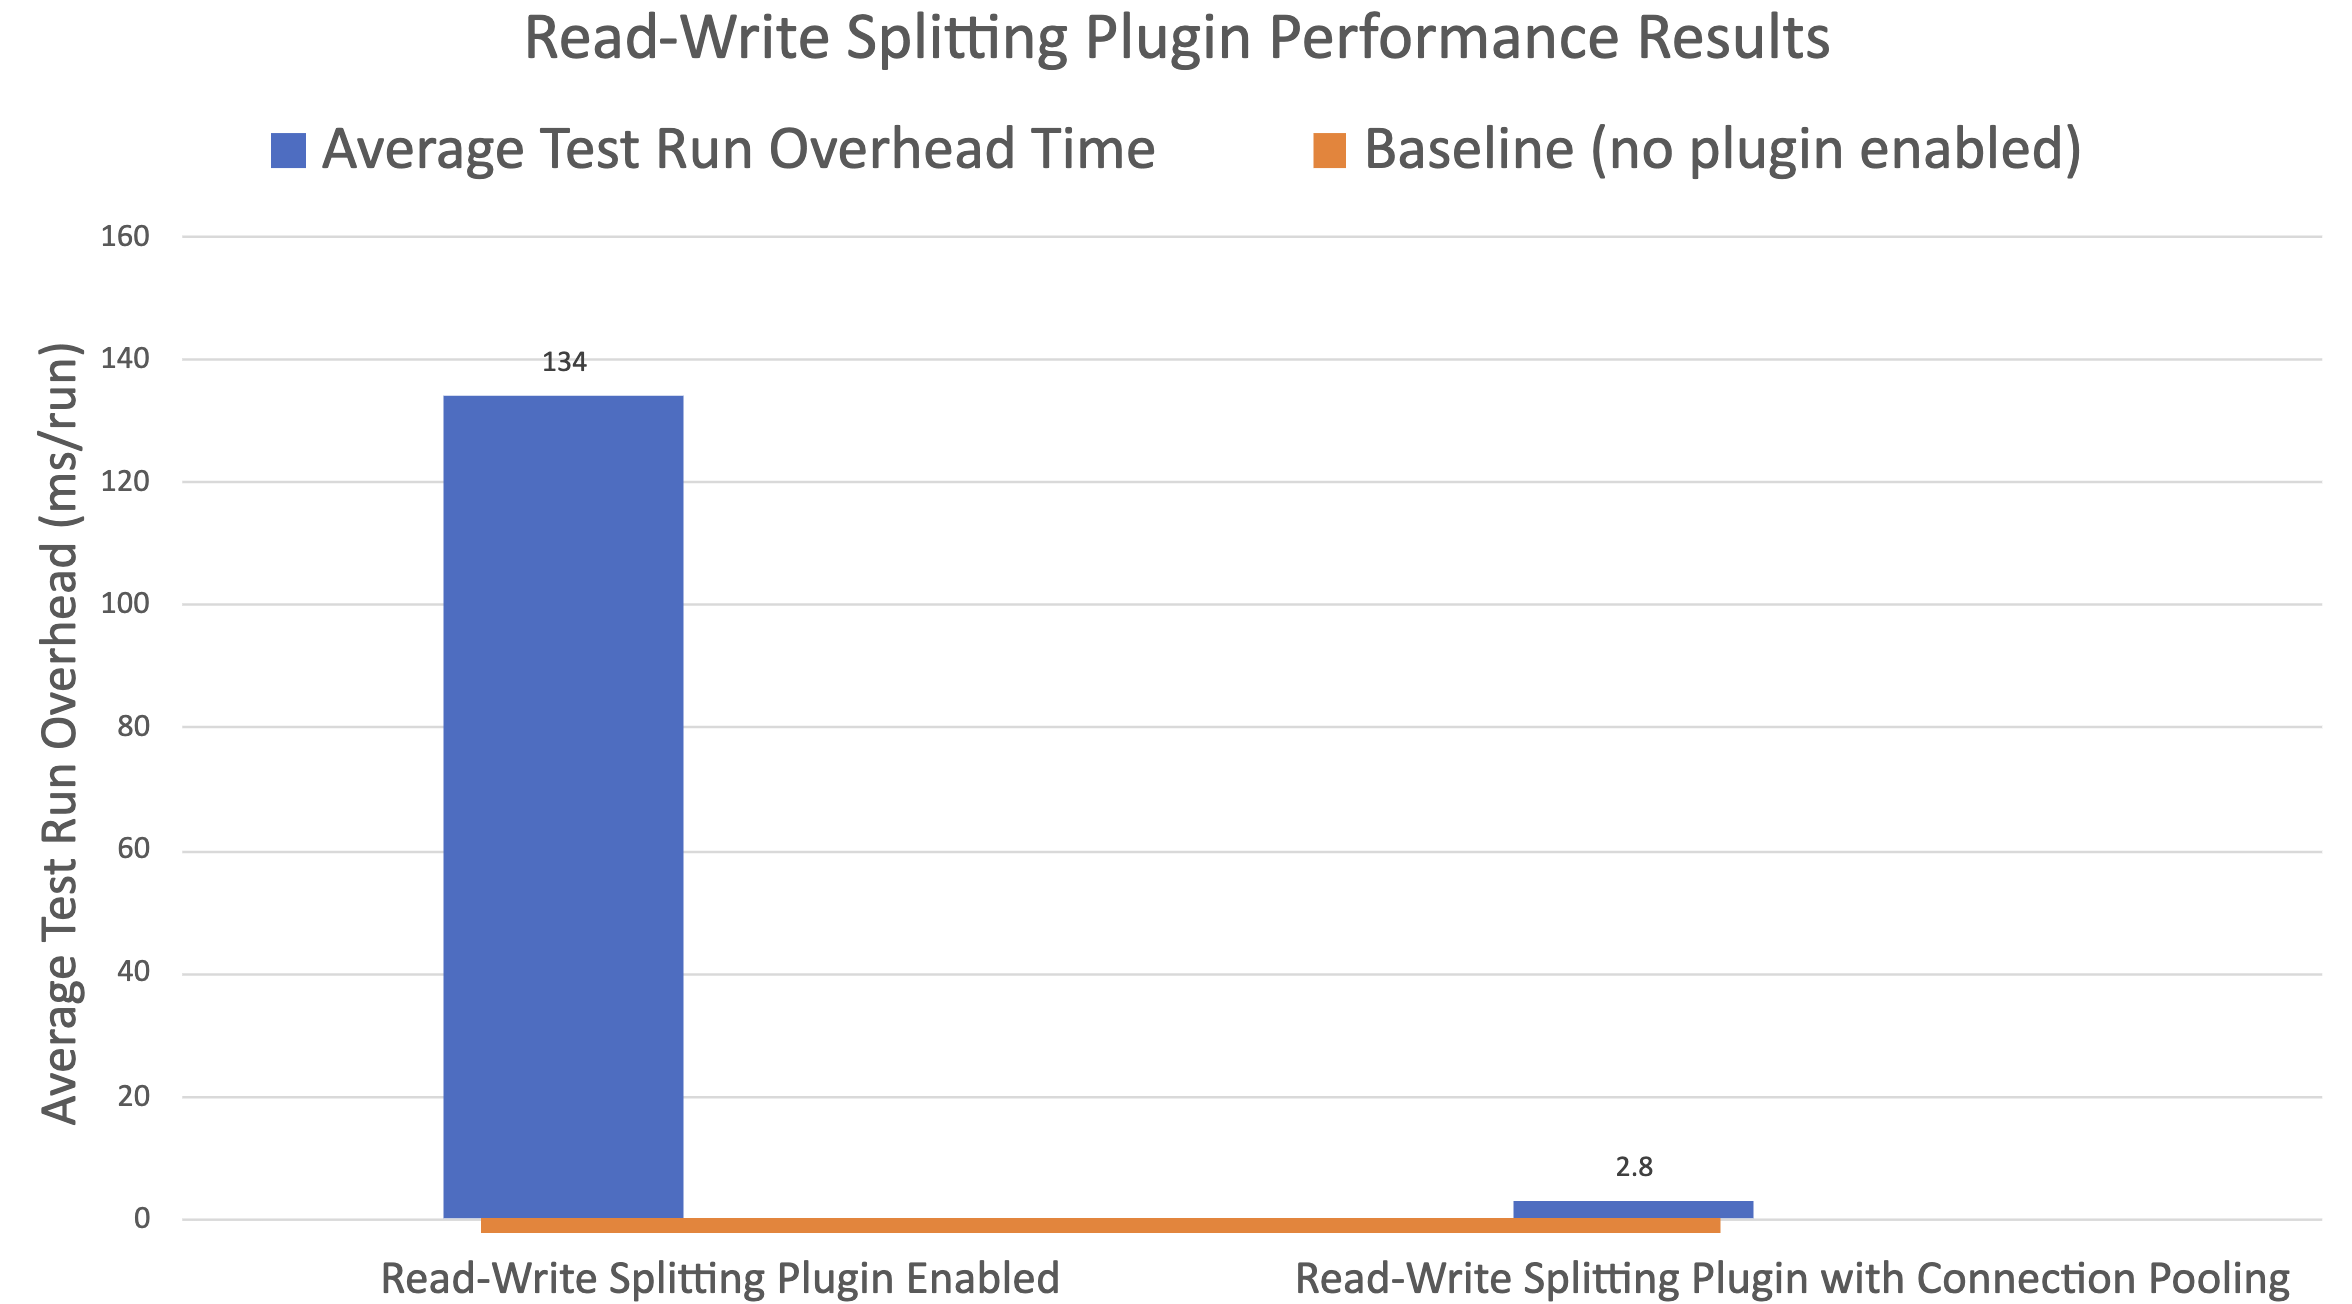
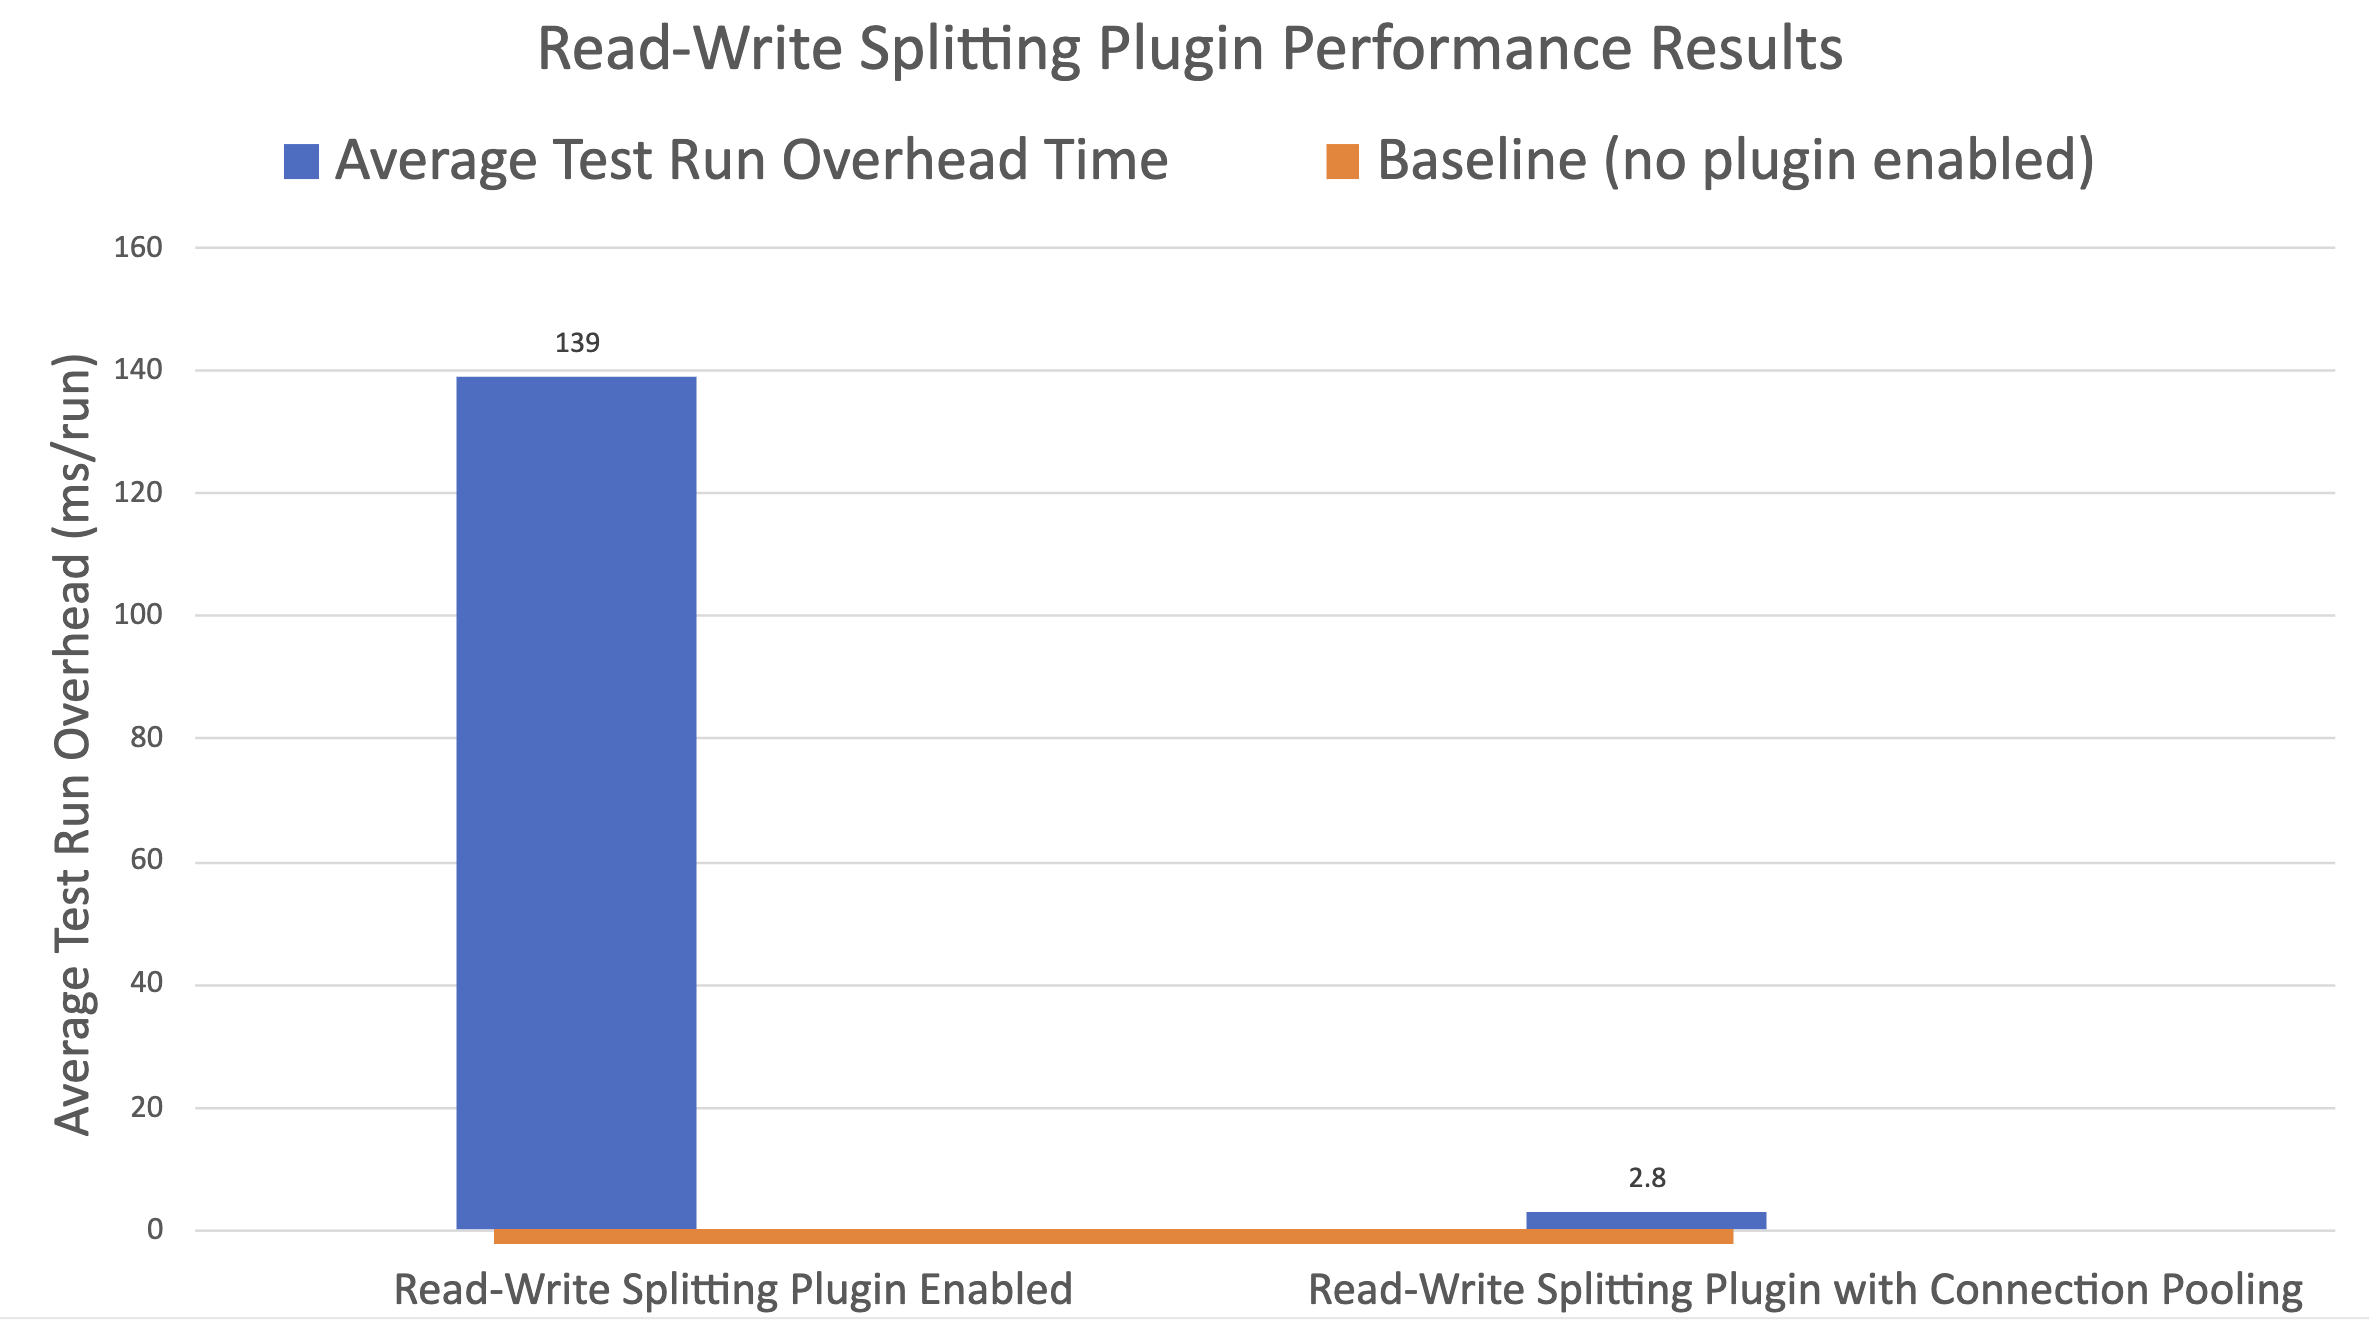
results numbers fix

diff --git a/docs/development-guide/ReadWriteSplittingPluginPerformanceResults.md b/docs/development-guide/ReadWriteSplittingPluginPerformanceResults.md
@@ -4,5 +4,5 @@
 | Benchmark                                                   | Average Test Run Overhead Time | Units       | Percentage (%) Increase of Average Test Run Overhead from Baseline |
 |-------------------------------------------------------------|--------------------------------|-------------|--------------------------------------------------------------------|
 | No Plugin Enabled                                           | 0 (baseline)                   | ms/test-run | 0                                                                  |
-| Read-Write Splitting Plugin Enabled                         | +134.0                         | ms/test-run | +0.689                                                             |
+| Read-Write Splitting Plugin Enabled                         | +139.0                         | ms/test-run | +0.689                                                             |
 | Read-Write Splitting Plugin with Connection Pooling Enabled | +2.8                           | ms/test-run | +0.014                                                             |
